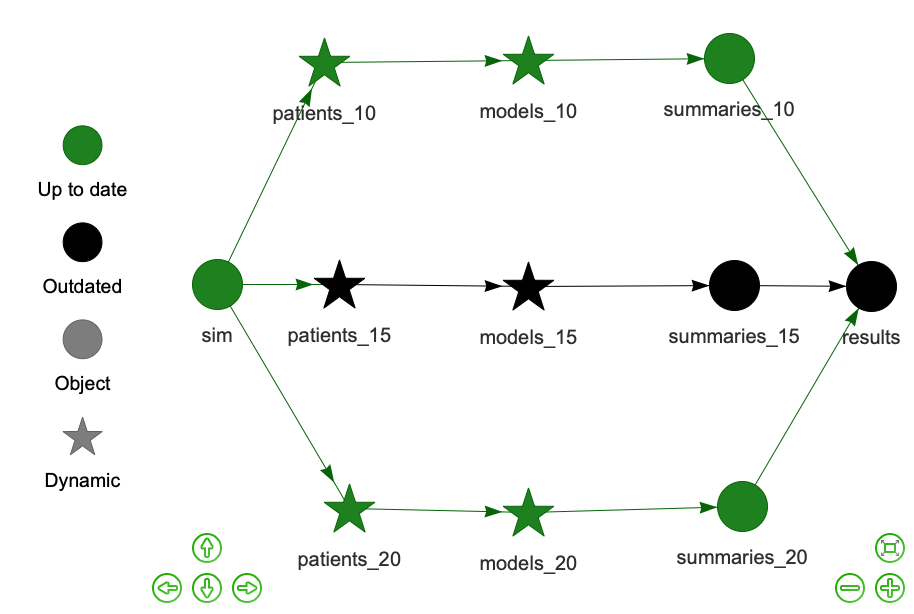
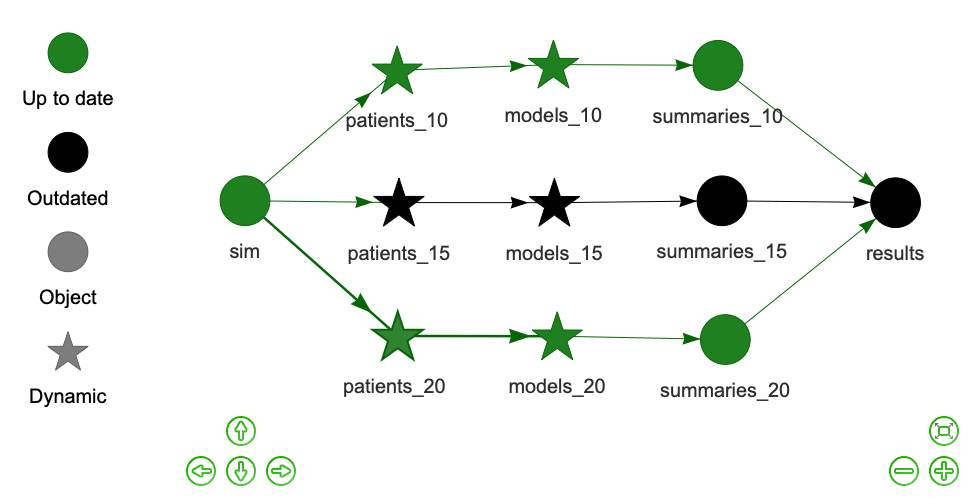
Update slides

diff --git a/index.html b/index.html
@@ -148,10 +148,10 @@ background-size: contain;
 ## Example: COVID-19 clinical trial simulation
 
 * Motivation: design a placebo-controlled phase 2 clinical trial of a potential new treatment of COVID-19.
-* Goal: understand the operating characteristics of the trial under different effect size scenarios.
+* Goal: understand the operating characteristics of a 200-patient trial under different effect size scenarios.
 * Patient population: hospitalized patients with moderate symptoms.
-* Endpoint: days until discharge from the hospital.
-* Decision: go to phase 3 if Prob(hazard ratio (of discharge) &gt; 1.5) &gt; 0.6 at the end of the study.
+* Endpoint: days until the patient is discharged from the hospital.
+* Decision: graduate to phase 3 if Prob(hazard ratio (of discharge) &gt; 1.5) &gt; 0.6 at the end of the study.
 * Simulation:
     1. Simulate time to event data from each arm (1 treatment and 1 placebo) from normal distributions (left-truncated right-censored).
     2. Analyze with a Bayesian survival model by [Zhou, Hanson, and Zhang](https://www.jstatsoft.org/article/view/v092i09) (2020; R package [`spBayesSurv`](https://cran.r-project.org/web/packages/spBayesSurv/index.html))
@@ -222,7 +222,7 @@ summarize_samples &lt;- function(samples, patients) {
   hazard_ratio_list &lt;- map(samples, ~as.mcmc(t(exp(.x$beta))))
   hazard_ratio &lt;- unlist(hazard_ratio_list)
   tibble(
-    prob_effect = mean(hazard_ratio &gt; 1),
+    prob_effect = mean(hazard_ratio &gt; 1.5),
     median = median(hazard_ratio),
     psrf = gelman.diag(hazard_ratio_list, multivariate = FALSE)$psrf[, 1],
     patients_per_arm = patients$patients_per_arm[1],
@@ -268,7 +268,7 @@ plan &lt;- drake_plan(
 
 
 ```r
-models = target(
+  models = target(
     model_hazard(patients, 2e3),
     dynamic = map(patients),
     transform = map(patients, .id = mean_treatment),
@@ -351,12 +351,11 @@ r_make()
 
 ```r
 &gt; readd(results)
-#&gt; # A tibble: 3 x 6
+#&gt; # A tibble: 2 x 6
 #&gt;   prob_success median max_psrf patients_per_arm mean_control mean_treatment
 #&gt;          &lt;dbl&gt;  &lt;dbl&gt;    &lt;dbl&gt;            &lt;dbl&gt;        &lt;dbl&gt;          &lt;dbl&gt;
-#&gt; 1          0.3  0.986     1.12              100           20             10
-#&gt; 2          0.4  0.958     1.26              200           20             10
-#&gt; 3          0.7  1.04      1.24              300           20             10
+#&gt; 1        0.996  2.36      1.03              100           20             10
+#&gt; 2        0.001  0.997     1.02              100           20             20
 ```
 
 ---
@@ -384,6 +383,11 @@ plan &lt;- drake_plan(
 ---
 
 ## The old targets are still up to date.
+
+
+```r
+r_vis_drake_graph()
+```
 
 ![](./images/graph2.png)
 
@@ -415,13 +419,12 @@ r_make()
 
 ```r
 readd(results)
-#&gt; # A tibble: 4 x 6
+#&gt; # A tibble: 3 x 6
 #&gt;   prob_success median max_psrf patients_per_arm mean_control mean_treatment
 #&gt;          &lt;dbl&gt;  &lt;dbl&gt;    &lt;dbl&gt;            &lt;dbl&gt;        &lt;dbl&gt;          &lt;dbl&gt;
-#&gt; 1          0.3  0.986     1.12              100           20             10
-#&gt; 2          0.4  0.958     1.26              200           20             10
-#&gt; 3          0.7  1.04      1.24              300           20             10
-#&gt; 4          0.1  0.991     1.30              400           20             10
+#&gt; 1        0.996  2.36      1.03              100           20             10
+#&gt; 2        0.503  1.56      1.03              100           20             15
+#&gt; 3        0.001  0.997     1.02              100           20             20
 ```
 
 ---
